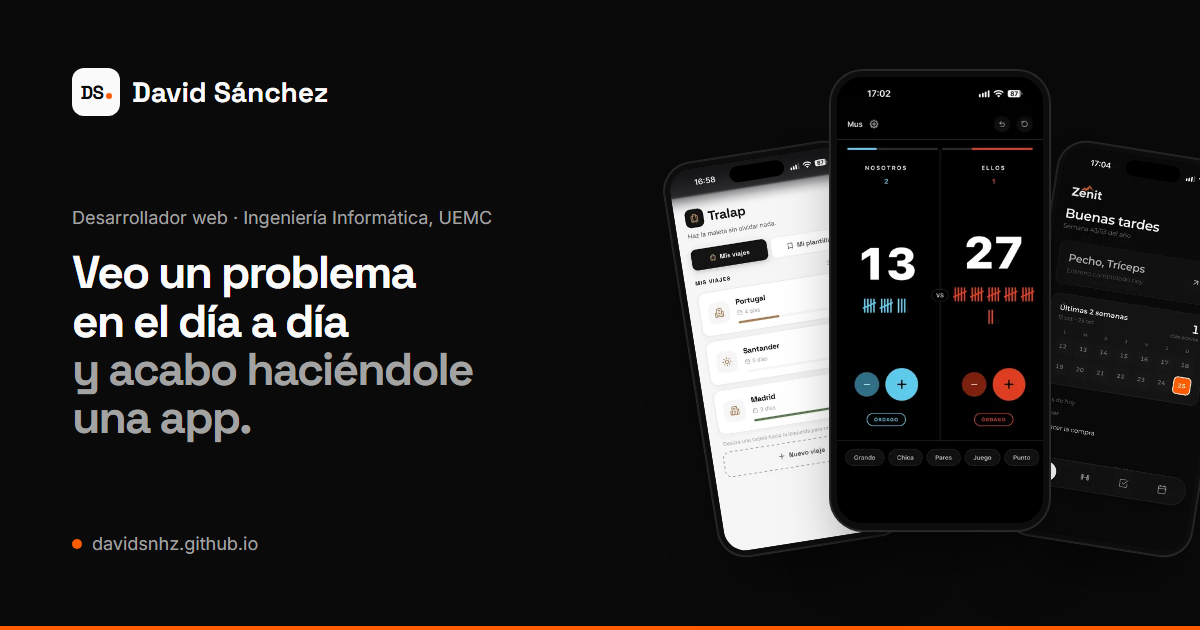
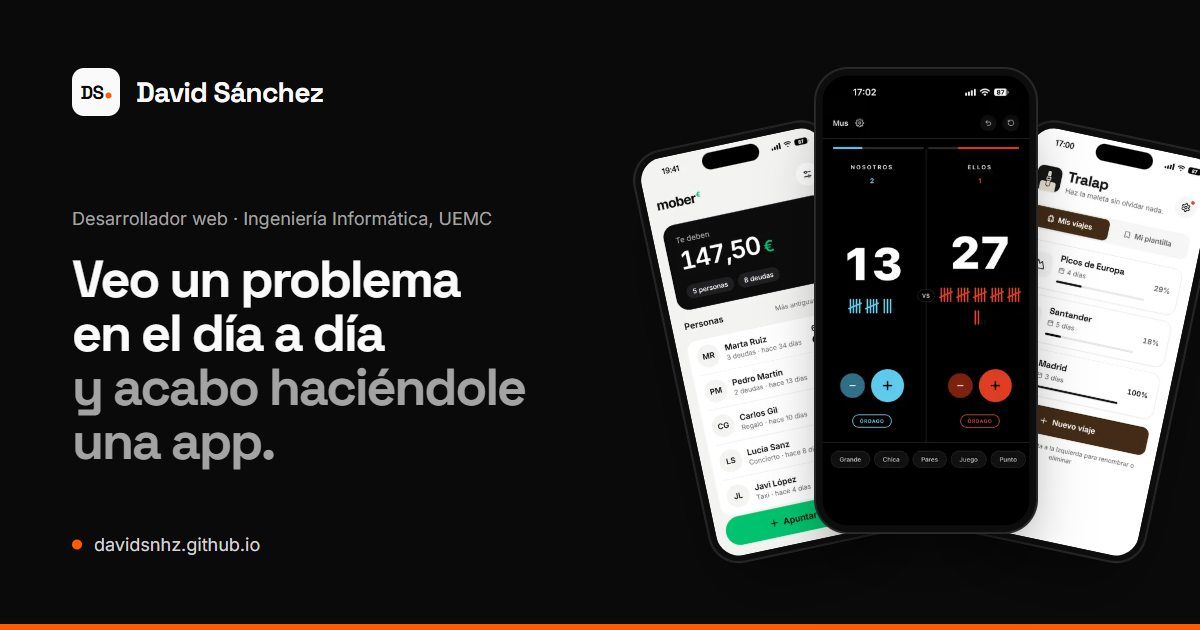
content: textos de la home, stack e imágenes para compartir con las apps nuevas

diff --git a/src/i18n/ui.ts b/src/i18n/ui.ts
@@ -5,7 +5,7 @@ export const defaultLang: Lang = 'es';
 const es = {
   'meta.title': 'David Sánchez · Desarrollador web y estudiante de Ingeniería Informática',
   'meta.description':
-    'Soy David Sánchez, estudiante de 3º de Ingeniería Informática en la UEMC. Veo problemas del día a día y les hago una app: Mus Contador, Tralap y Zenit.',
+    'Soy David Sánchez, estudiante de 3º de Ingeniería Informática en la UEMC. Veo problemas del día a día y les hago una app, como Mus Contador, Mober, Tralap o Zenit.',
 
   'skip': 'Saltar al contenido',
   'nav.label': 'Principal',
@@ -24,7 +24,7 @@ const es = {
   'hero.title.a': 'Veo un problema en el día a día',
   'hero.title.b': 'y acabo haciéndole una app.',
   'hero.text':
-    'Estudio 3º de Ingeniería Informática y me encanta todo lo que tiene que ver con la informática y la IA. Por ahora he hecho un marcador para jugar al mus, una app para hacer la maleta sin dejarte nada y otra para llevar el gimnasio al día.',
+    'Estudio 3º de Ingeniería Informática y me encanta todo lo que tiene que ver con la informática y la IA. He hecho un marcador para jugar al mus, una app para acordarte de quién te debe dinero, otra para hacer la maleta sin dejarte nada y otra para llevar el gimnasio al día. Ahora estoy con un juego de mus.',
   'hero.cta.projects': 'Ver proyectos',
   'hero.cta.contact': 'Contacto',
 
@@ -43,7 +43,7 @@ const es = {
   'about.p1':
     'Soy David Sánchez y estudio 3º de Ingeniería Informática en la Universidad Europea Miguel de Cervantes (UEMC). Me encanta la informática y estoy muy metido en todo lo relacionado con la IA.',
   'about.p2':
-    'Casi todo lo que hago sale de algo del día a día: llevar la cuenta del mus sin papelitos, no olvidarme nada al hacer la maleta o tener mis entrenos organizados. Me gusta encargarme de todo, desde pensar cómo va a funcionar hasta publicarlo para que cualquiera lo pueda abrir en el móvil.',
+    'Casi todo lo que hago sale de algo del día a día: llevar la cuenta del mus sin papelitos, no olvidarme nada al hacer la maleta, tener mis entrenos organizados o acordarme de quién me debe dinero. Me gusta encargarme de todo, desde pensar cómo va a funcionar hasta publicarlo para que cualquiera lo pueda abrir en el móvil.',
   'about.facts.label': 'Datos rápidos',
   'about.facts.studies': 'Estudios',
   'about.facts.studies.value': 'Ingeniería Informática, 3º',
@@ -83,7 +83,7 @@ export type UiKey = keyof typeof es;
 const en: Record<UiKey, string> = {
   'meta.title': 'David Sánchez · Web developer and Computer Engineering student',
   'meta.description':
-    "I'm David Sánchez, a third-year Computer Engineering student at UEMC, Spain. I spot everyday problems and build apps for them: Mus Contador, Tralap and Zenit.",
+    "I'm David Sánchez, a third-year Computer Engineering student at UEMC, Spain. I spot everyday problems and build apps for them, like Mus Contador, Mober, Tralap or Zenit.",
 
   'skip': 'Skip to content',
   'nav.label': 'Main',
@@ -102,7 +102,7 @@ const en: Record<UiKey, string> = {
   'hero.title.a': 'I spot an everyday problem',
   'hero.title.b': 'and end up building an app for it.',
   'hero.text':
-    "I'm a third-year Computer Engineering student and I love anything to do with computing and AI. So far I've built a scorekeeper for playing mus (a Spanish card game), an app to pack your suitcase without forgetting anything and another one to keep my gym routine on track.",
+    "I'm a third-year Computer Engineering student and I love anything to do with computing and AI. I've built a scorekeeper for playing mus (a Spanish card game), an app to remember who owes you money, another one to pack your suitcase without forgetting anything and another one to keep my gym routine on track. Right now I'm working on a mus video game.",
   'hero.cta.projects': 'See projects',
   'hero.cta.contact': 'Contact',
 
@@ -121,7 +121,7 @@ const en: Record<UiKey, string> = {
   'about.p1':
     "I'm David Sánchez and I'm in my third year of Computer Engineering at Universidad Europea Miguel de Cervantes (UEMC), in Spain. I love computing and I'm really into everything related to AI.",
   'about.p2':
-    'Most of what I build comes from everyday stuff: keeping score at mus without scraps of paper, not forgetting anything when packing, or keeping my workouts organized. I like handling all of it, from figuring out how it should work to publishing it so anyone can open it on their phone.',
+    'Most of what I build comes from everyday stuff: keeping score at mus without scraps of paper, not forgetting anything when packing, keeping my workouts organized or remembering who owes me money. I like handling all of it, from figuring out how it should work to publishing it so anyone can open it on their phone.',
   'about.facts.label': 'Quick facts',
   'about.facts.studies': 'Studies',
   'about.facts.studies.value': 'Computer Engineering, 3rd year',

diff --git a/src/config/site.ts b/src/config/site.ts
@@ -8,5 +8,5 @@ export const site = {
   // TODO: añade la URL de tu perfil de LinkedIn cuando lo tengas
   email: 'davidsnhzv@gmail.com',
   linkedin: '',
-  stack: ['JavaScript', 'TypeScript', 'React', 'Vite', 'Tailwind', 'Firebase', 'PWA', 'Git'],
+  stack: ['JavaScript', 'TypeScript', 'React', 'React Native', 'Vite', 'Tailwind', 'Firebase', 'PWA', 'Git'],
 };
